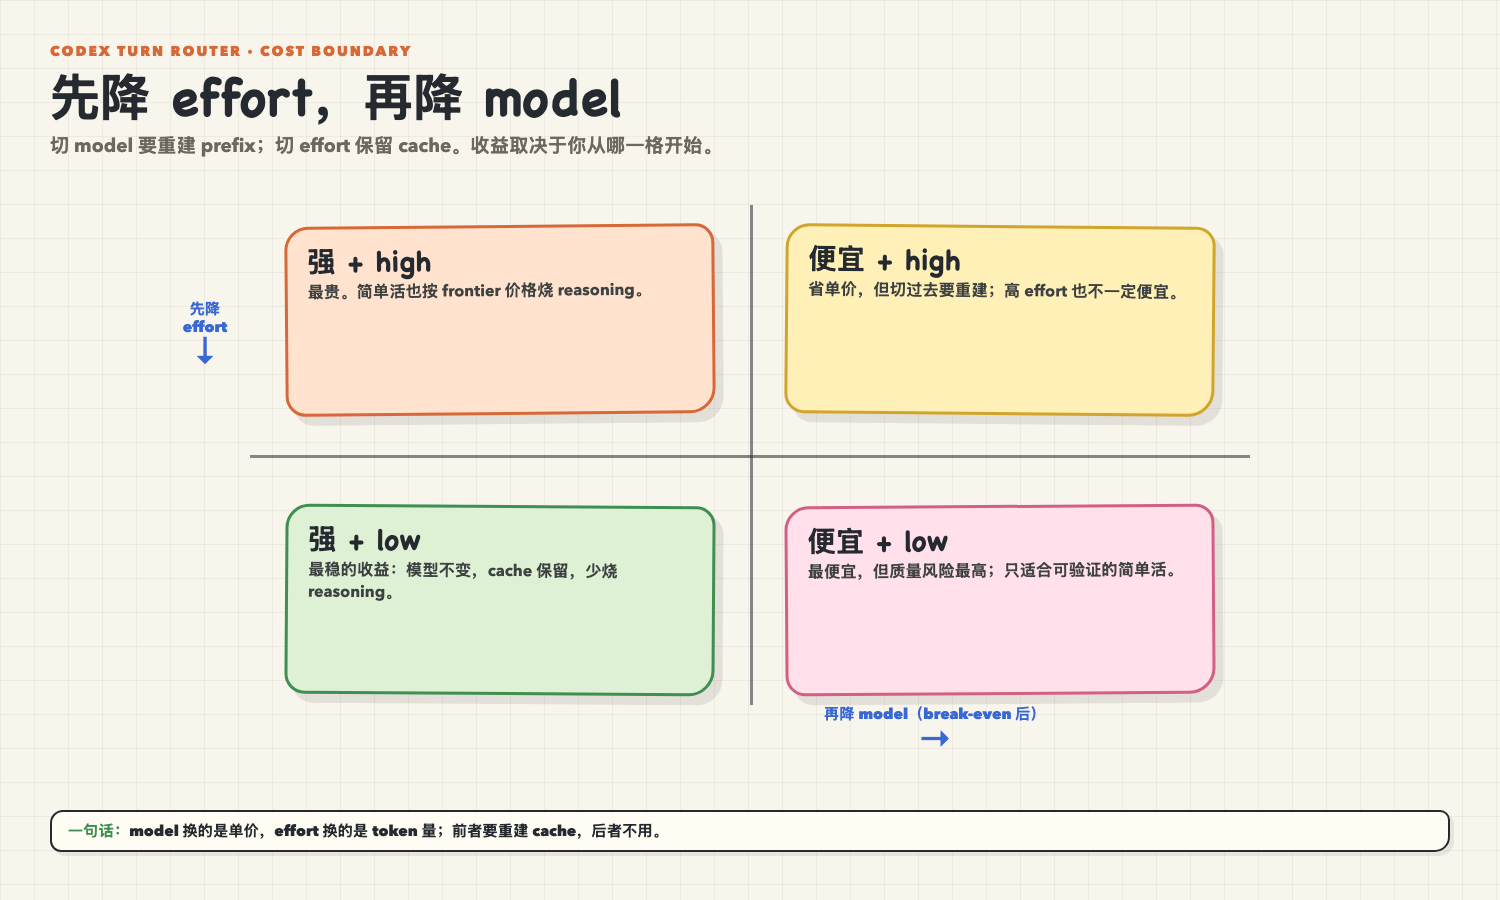
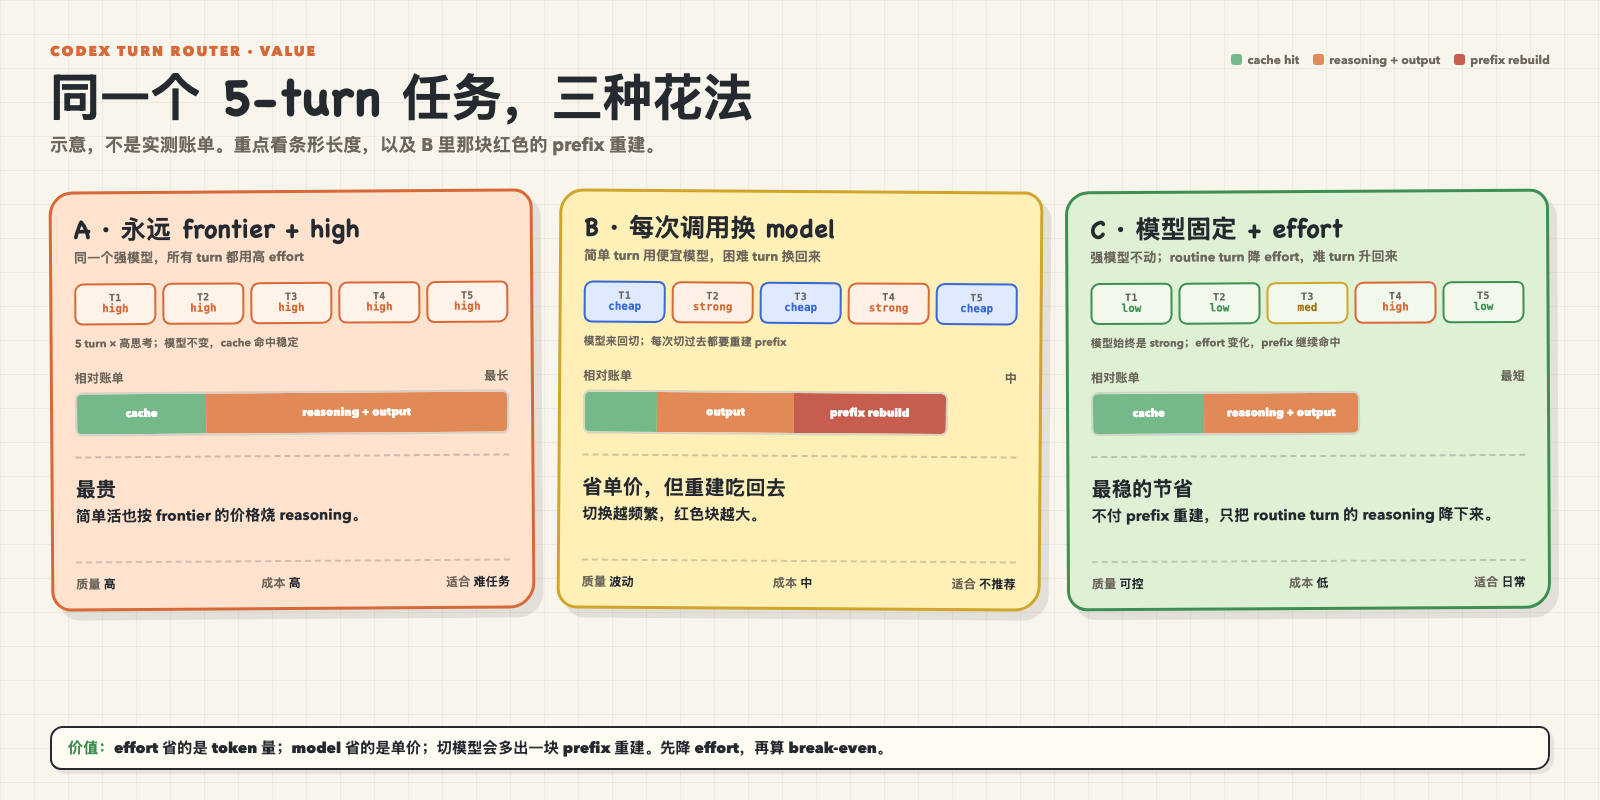
docs: show the value with a concrete 5-turn bill

diff --git a/docs/assets/codex-turn-router-tradeoffs.html b/docs/assets/codex-turn-router-tradeoffs.html
@@ -3,7 +3,7 @@
 <head>
   <meta charset="utf-8">
   <meta name="viewport" content="width=device-width, initial-scale=1">
-  <title>Codex Turn Router · 收益边界</title>
+  <title>Codex Turn Router · 三种花法</title>
   <style>
     :root {
       --paper: #f8f5ec;
@@ -12,14 +12,16 @@
       --grid: rgba(37,42,49,.055);
       --orange: #d76838;
       --orange-soft: #ffe3ce;
-      --green: #3f8f52;
-      --green-soft: #dff1d4;
       --yellow: #d1a52b;
       --yellow-soft: #fff0b8;
-      --pink: #d35f84;
-      --pink-soft: #ffe0eb;
+      --green: #3f8f52;
+      --green-soft: #dff1d4;
+      --teal: #20898d;
+      --teal-soft: #d6f1ee;
       --blue: #3867d6;
       --blue-soft: #dfe9ff;
+      --red: #b84736;
+      --red-soft: #ffe1da;
     }
     * { box-sizing: border-box; }
     body {
@@ -32,77 +34,154 @@
       background-size: 34px 34px;
       font-family: "Chalkboard SE", "Marker Felt", "PingFang SC", sans-serif;
     }
-    .page { position: relative; width: 1500px; height: 900px; overflow: hidden; padding: 42px 50px; }
+    .page { position: relative; width: 1600px; height: 800px; overflow: hidden; padding: 42px 50px; }
     .kicker { color: var(--orange); font: 900 14px "Avenir Next", "PingFang SC", sans-serif; letter-spacing: .14em; }
     h1 { margin: 7px 0 0; font-size: 50px; line-height: 1.05; }
-    .subtitle { margin: 12px 0 0; color: var(--muted); font: 650 19px/1.4 "Avenir Next", "PingFang SC", sans-serif; }
-    .matrix { position: absolute; left: 250px; top: 205px; width: 1000px; height: 500px; }
-    .axis-line { position: absolute; background: var(--ink); opacity: .55; }
-    .axis-line.x { left: 250px; top: 455px; width: 1000px; height: 3px; }
-    .axis-line.y { left: 750px; top: 205px; width: 3px; height: 500px; }
-    .quad {
-      position: absolute;
-      width: 430px;
-      height: 190px;
-      padding: 16px 20px;
+    .subtitle { margin: 12px 0 0; max-width: 1030px; color: var(--muted); font: 650 18px/1.4 "Avenir Next", "PingFang SC", sans-serif; }
+    .legend { position: absolute; right: 50px; top: 52px; display: flex; gap: 14px; align-items: center; font: 700 12px "Avenir Next", "PingFang SC", sans-serif; color: var(--muted); }
+    .legend i { display: inline-block; width: 11px; height: 11px; border-radius: 3px; margin-right: 5px; vertical-align: -1px; }
+    .legend .hit { background: #75b98a; }
+    .legend .out { background: #e28a57; }
+    .legend .rebuild { background: #c75d4f; }
+    .panels { position: absolute; left: 50px; top: 190px; width: 1500px; display: grid; grid-template-columns: repeat(3, 1fr); gap: 24px; }
+    .panel {
+      position: relative;
+      height: 420px;
+      padding: 20px 22px;
       border: 3.5px solid var(--stroke);
       border-radius: 24px 19px 26px 20px;
       background: var(--fill);
       box-shadow: 8px 9px 0 rgba(37,42,49,.1);
       transform: rotate(var(--tilt));
-      z-index: 3;
     }
-    .quad h2 { margin: 0 0 8px; font-size: 28px; line-height: 1; }
-    .quad p { margin: 0; color: #3e4242; font: 700 16px/1.4 "Avenir Next", "PingFang SC", sans-serif; }
-    .q1 { left: 285px; top: 225px; --stroke: var(--orange); --fill: var(--orange-soft); --tilt: -.5deg; }
-    .q2 { left: 785px; top: 225px; --stroke: var(--yellow); --fill: var(--yellow-soft); --tilt: .5deg; }
-    .q3 { left: 285px; top: 505px; --stroke: var(--green); --fill: var(--green-soft); --tilt: .4deg; }
-    .q4 { left: 785px; top: 505px; --stroke: var(--pink); --fill: var(--pink-soft); --tilt: -.4deg; }
-    .arrow { position: absolute; z-index: 4; font: 900 15px/1.2 "Avenir Next", "PingFang SC", sans-serif; color: var(--blue); }
-    .arrow.down { left: 172px; top: 300px; width: 66px; text-align: center; }
-    .arrow.down:after { content: "↓"; display: block; font-size: 34px; line-height: 1; }
-    .arrow.right { left: 785px; top: 705px; width: 300px; text-align: center; }
-    .arrow.right:after { content: "→"; display: block; font-size: 34px; line-height: 1; }
-    .corner { position: absolute; color: var(--muted); font: 800 13px "Avenir Next", "PingFang SC", sans-serif; }
-    .footer {
-      position: absolute; left: 50px; right: 50px; bottom: 48px;
-      padding: 9px 16px; border: 2.5px solid var(--ink); border-radius: 13px 10px 15px 11px;
-      background: rgba(255,252,243,.92); box-shadow: 4px 4px 0 rgba(37,42,49,.08);
-      font: 800 15px/1.35 "Avenir Next", "PingFang SC", sans-serif;
+    .panel.a { --stroke: var(--orange); --fill: var(--orange-soft); --tilt: -.4deg; }
+    .panel.b { --stroke: var(--yellow); --fill: var(--yellow-soft); --tilt: .4deg; }
+    .panel.c { --stroke: var(--green); --fill: var(--green-soft); --tilt: -.3deg; }
+    .panel h2 { margin: 0 0 6px; font-size: 25px; line-height: 1.1; }
+    .panel .tag { margin: 0 0 16px; color: var(--muted); font: 700 13px "Avenir Next", "PingFang SC", sans-serif; }
+    .turns { display: flex; gap: 6px; margin: 0 0 10px; }
+    .turn {
+      flex: 1;
+      min-width: 0;
+      padding: 7px 4px;
+      border: 2px solid rgba(37,42,49,.2);
+      border-radius: 9px 7px 10px 8px;
+      background: rgba(255,255,255,.55);
+      text-align: center;
+      font: 800 11px/1.15 "SFMono-Regular", Menlo, monospace;
     }
-    .footer b { color: var(--green); }
+    .turn b { display: block; color: var(--muted); font-size: 10px; letter-spacing: .04em; }
+    .turn.high { border-color: var(--orange); color: var(--orange); }
+    .turn.low { border-color: var(--green); color: var(--green); }
+    .turn.med { border-color: var(--yellow); color: #9b7514; }
+    .turn.cheap { border-color: var(--blue); color: var(--blue); background: var(--blue-soft); }
+    .turn.strong { border-color: var(--orange); color: var(--orange); background: #fff1e5; }
+    .turn.rebuild { border-color: var(--red); color: var(--red); background: var(--red-soft); }
+    .turns-label { margin: 0 0 18px; color: var(--muted); font: 700 11px "Avenir Next", "PingFang SC", sans-serif; }
+    .bill-label { display: flex; justify-content: space-between; margin: 0 0 6px; color: var(--muted); font: 800 12px "Avenir Next", "PingFang SC", sans-serif; }
+    .bar-track { height: 44px; border-radius: 7px; background: rgba(255,255,255,.55); border: 2px solid rgba(37,42,49,.17); overflow: hidden; display: flex; }
+    .seg { height: 100%; display: grid; place-items: center; color: #fff; font: 800 11px "Avenir Next", "PingFang SC", sans-serif; white-space: nowrap; overflow: hidden; }
+    .hit { background: #75b98a; }
+    .out { background: #e28a57; }
+    .rebuild { background: #c75d4f; }
+    .a .bar-track { width: 100%; }
+    .b .bar-track { width: 84%; }
+    .c .bar-track { width: 62%; }
+    .verdict { margin: 20px 0 0; padding-top: 15px; border-top: 2px dashed rgba(37,42,49,.22); font: 700 15px/1.45 "Avenir Next", "PingFang SC", sans-serif; }
+    .verdict strong { display: block; margin-bottom: 4px; color: var(--ink); font-family: "Chalkboard SE", "Marker Felt", "PingFang SC", sans-serif; font-size: 20px; }
+    .panel-foot {
+      position: absolute;
+      left: 22px;
+      right: 22px;
+      bottom: 16px;
+      display: flex;
+      justify-content: space-between;
+      gap: 10px;
+      padding-top: 12px;
+      border-top: 2px dashed rgba(37,42,49,.2);
+      color: var(--muted);
+      font: 800 12px "Avenir Next", "PingFang SC", sans-serif;
+    }
+    .panel-foot b { color: var(--ink); }
+    .note { position: absolute; left: 50px; right: 50px; bottom: 30px; padding: 10px 16px; border: 2.5px solid var(--ink); border-radius: 13px 10px 15px 11px; background: rgba(255,252,243,.92); box-shadow: 4px 4px 0 rgba(37,42,49,.08); font: 800 15px/1.35 "Avenir Next", "PingFang SC", sans-serif; }
+    .note b { color: var(--green); }
   </style>
 </head>
 <body>
   <main class="page">
-    <div class="kicker">CODEX TURN ROUTER · COST BOUNDARY</div>
-    <h1>先降 effort，再降 model</h1>
-    <p class="subtitle">切 model 要重建 prefix；切 effort 保留 cache。收益取决于你从哪一格开始。</p>
+    <div class="kicker">CODEX TURN ROUTER · VALUE</div>
+    <h1>同一个 5-turn 任务，三种花法</h1>
+    <p class="subtitle">示意，不是实测账单。重点看条形长度，以及 B 里那块红色的 prefix 重建。</p>
+    <div class="legend">
+      <span><i class="hit"></i>cache hit</span>
+      <span><i class="out"></i>reasoning + output</span>
+      <span><i class="rebuild"></i>prefix rebuild</span>
+    </div>
 
-    <div class="axis-line x"></div>
-    <div class="axis-line y"></div>
+    <div class="panels">
+      <section class="panel a">
+        <h2>A · 永远 frontier + high</h2>
+        <p class="tag">同一个强模型，所有 turn 都用高 effort</p>
+        <div class="turns">
+          <div class="turn high"><b>T1</b>high</div>
+          <div class="turn high"><b>T2</b>high</div>
+          <div class="turn high"><b>T3</b>high</div>
+          <div class="turn high"><b>T4</b>high</div>
+          <div class="turn high"><b>T5</b>high</div>
+        </div>
+        <p class="turns-label">5 turn × 高思考；模型不变，cache 命中稳定</p>
+        <div class="bill-label"><span>相对账单</span><span>最长</span></div>
+        <div class="bar-track">
+          <div class="seg hit" style="width:30%">cache</div>
+          <div class="seg out" style="width:70%">reasoning + output</div>
+        </div>
+        <p class="verdict"><strong>最贵</strong>简单活也按 frontier 的价格烧 reasoning。</p>
+        <div class="panel-foot"><span>质量 <b>高</b></span><span>成本 <b>高</b></span><span>适合 <b>难任务</b></span></div>
+      </section>
 
-    <section class="quad q1">
-      <h2>强 + high</h2>
-      <p>最贵。简单活也按 frontier 价格烧 reasoning。</p>
-    </section>
-    <section class="quad q2">
-      <h2>便宜 + high</h2>
-      <p>省单价，但切过去要重建；高 effort 也不一定便宜。</p>
-    </section>
-    <section class="quad q3">
-      <h2>强 + low</h2>
-      <p>最稳的收益：模型不变，cache 保留，少烧 reasoning。</p>
-    </section>
-    <section class="quad q4">
-      <h2>便宜 + low</h2>
-      <p>最便宜，但质量风险最高；只适合可验证的简单活。</p>
-    </section>
+      <section class="panel b">
+        <h2>B · 每次调用换 model</h2>
+        <p class="tag">简单 turn 用便宜模型，困难 turn 换回来</p>
+        <div class="turns">
+          <div class="turn cheap"><b>T1</b>cheap</div>
+          <div class="turn strong"><b>T2</b>strong</div>
+          <div class="turn cheap"><b>T3</b>cheap</div>
+          <div class="turn strong"><b>T4</b>strong</div>
+          <div class="turn cheap"><b>T5</b>cheap</div>
+        </div>
+        <p class="turns-label">模型来回切；每次切过去都要重建 prefix</p>
+        <div class="bill-label"><span>相对账单</span><span>中</span></div>
+        <div class="bar-track">
+          <div class="seg hit" style="width:20%"></div>
+          <div class="seg out" style="width:38%">output</div>
+          <div class="seg rebuild" style="width:42%">prefix rebuild</div>
+        </div>
+        <p class="verdict"><strong>省单价，但重建吃回去</strong>切换越频繁，红色块越大。</p>
+        <div class="panel-foot"><span>质量 <b>波动</b></span><span>成本 <b>中</b></span><span>适合 <b>不推荐</b></span></div>
+      </section>
 
-    <div class="arrow down">先降 effort</div>
-    <div class="arrow right">再降 model（break-even 后）</div>
+      <section class="panel c">
+        <h2>C · 模型固定 + effort</h2>
+        <p class="tag">强模型不动；routine turn 降 effort，难 turn 升回来</p>
+        <div class="turns">
+          <div class="turn low"><b>T1</b>low</div>
+          <div class="turn low"><b>T2</b>low</div>
+          <div class="turn med"><b>T3</b>med</div>
+          <div class="turn high"><b>T4</b>high</div>
+          <div class="turn low"><b>T5</b>low</div>
+        </div>
+        <p class="turns-label">模型始终是 strong；effort 变化，prefix 继续命中</p>
+        <div class="bill-label"><span>相对账单</span><span>最短</span></div>
+        <div class="bar-track">
+          <div class="seg hit" style="width:42%">cache</div>
+          <div class="seg out" style="width:58%">reasoning + output</div>
+        </div>
+        <p class="verdict"><strong>最稳的节省</strong>不付 prefix 重建，只把 routine turn 的 reasoning 降下来。</p>
+        <div class="panel-foot"><span>质量 <b>可控</b></span><span>成本 <b>低</b></span><span>适合 <b>日常</b></span></div>
+      </section>
+    </div>
 
-    <div class="footer"><b>一句话：</b>model 换的是单价，effort 换的是 token 量；前者要重建 cache，后者不用。</div>
+    <div class="note"><b>价值：</b>effort 省的是 token 量；model 省的是单价；切模型会多出一块 prefix 重建。先降 effort，再算 break-even。</div>
   </main>
 </body>
 </html>

diff --git a/docs/codex-turn-router.md b/docs/codex-turn-router.md
@@ -127,7 +127,7 @@ break-even. `JEV_CODEX_OUTPUT_TOKENS_PER_TURN` estimates output cost.
 Effort routing is **off by default** in this alpha. Enable it explicitly with
 `JEV_CODEX_EFFORT_ROUTING=turn` after a live Codex smoke test.
 
-![Effort vs model tradeoff](assets/codex-turn-router-tradeoffs.png)
+![Same 5-turn task, three spending strategies](assets/codex-turn-router-tradeoffs.png)
 
 The model stays pinned while effort can change at a turn boundary. The router:
 
